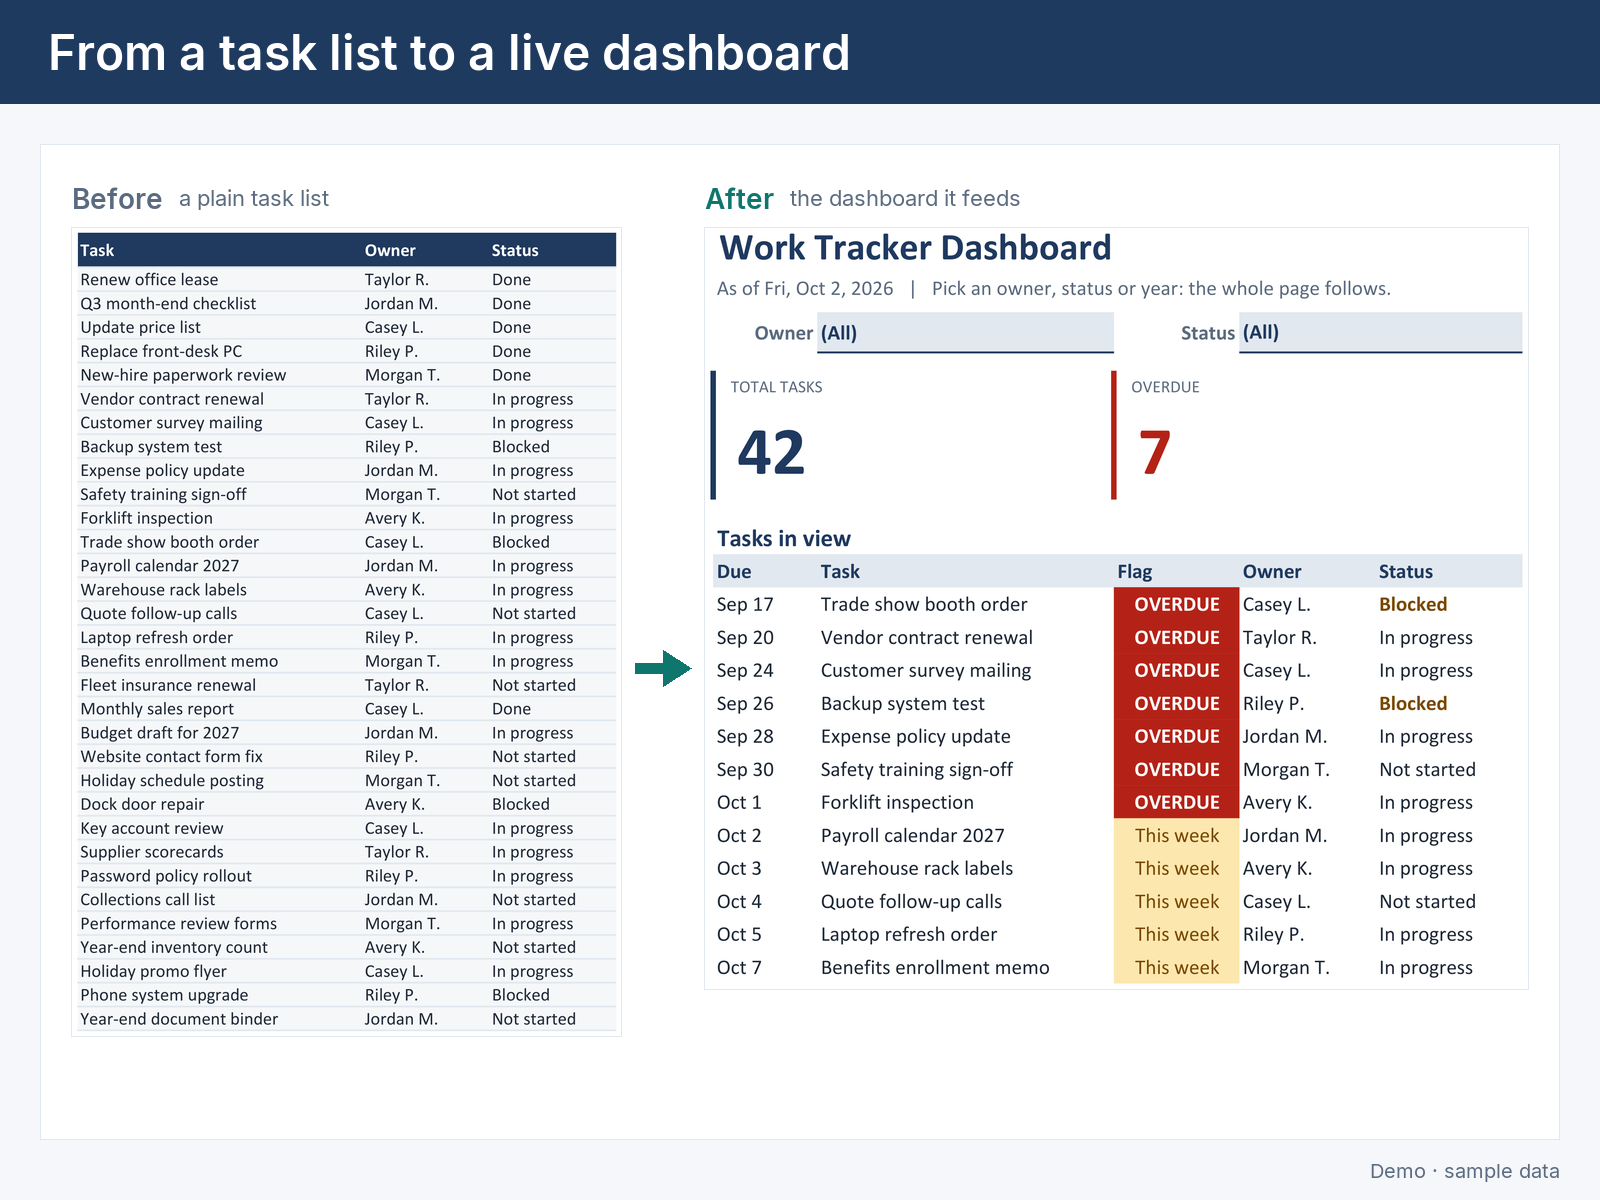
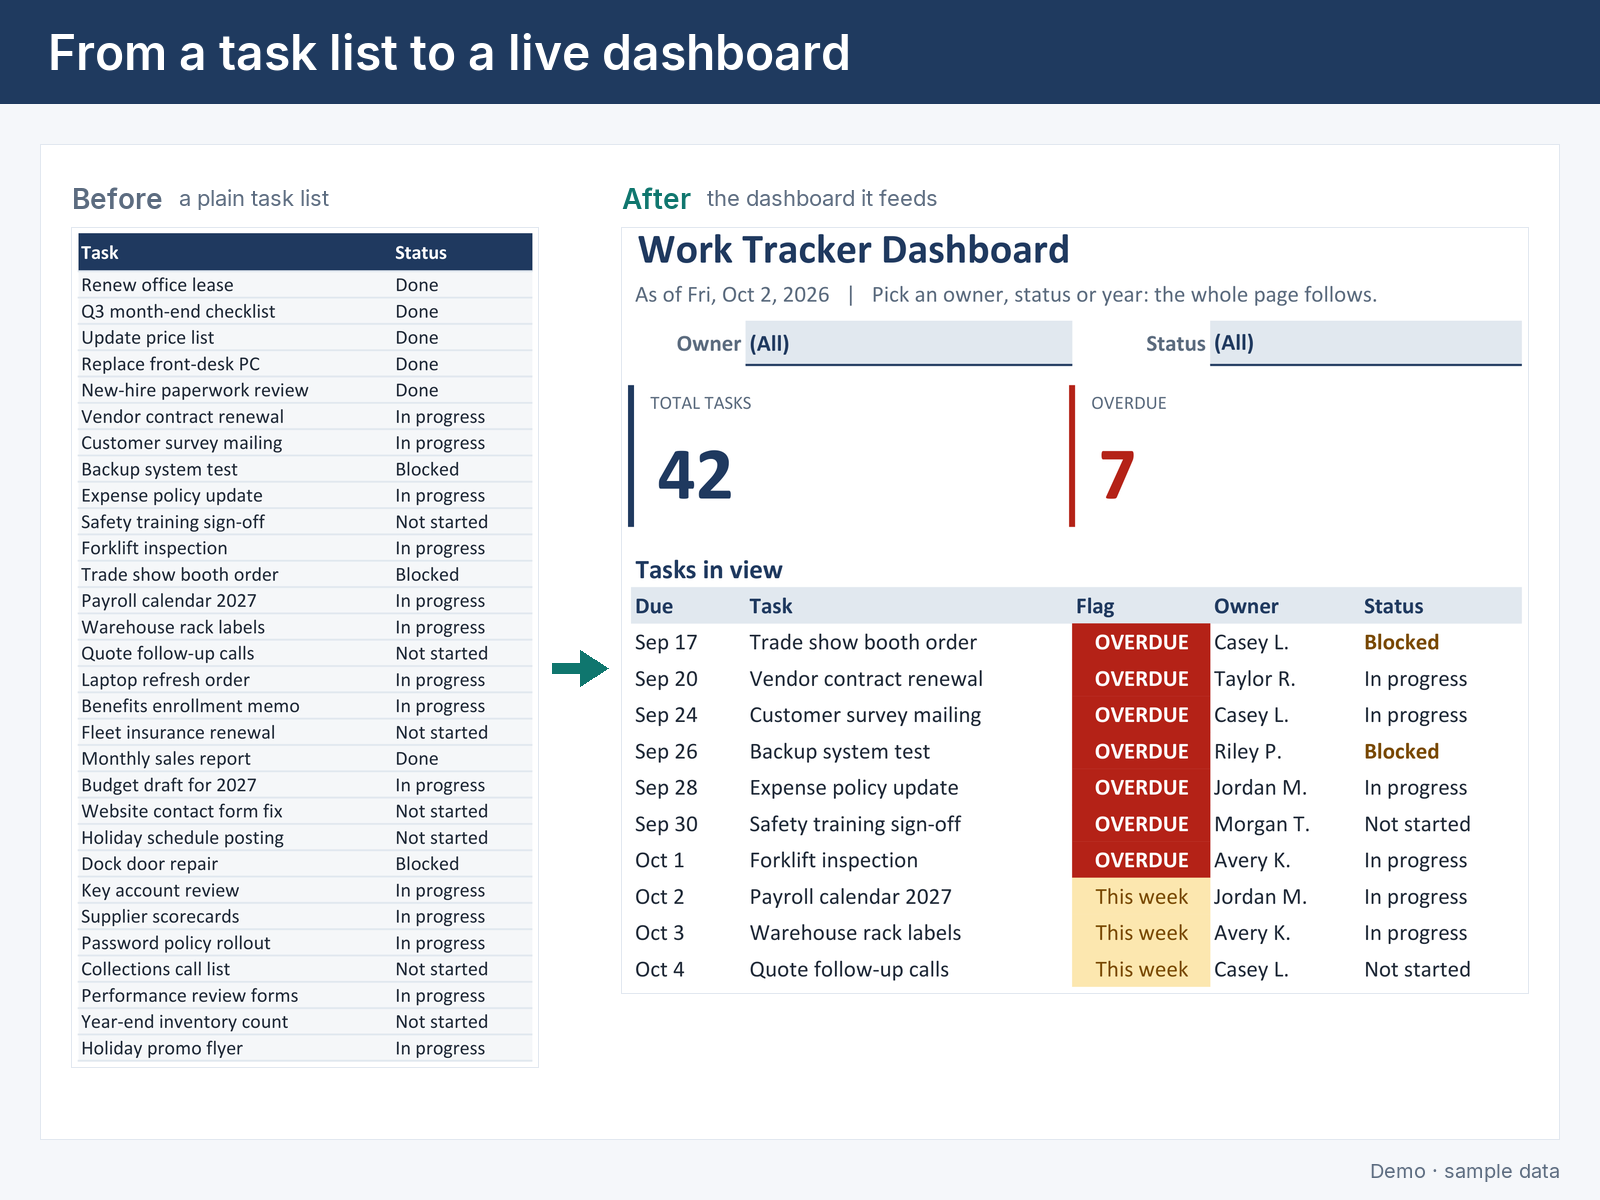
Before/after image: rebalance the panels so text is 20 px or more
The Before panel shows Task and Status for 30 tasks and takes a third of
the card; the After panel gets the rest, so its tile numbers reach 75 px.
The tool now prints the text and number sizes each image comes out at.

Changed region(s): [[0.0312, 0.1542, 0.9688, 0.8942]]

diff --git a/tools/make_screenshots.py b/tools/make_screenshots.py
@@ -12,6 +12,9 @@ opened read-only and never saved), PyMuPDF draws the PDF, and the kit frames it.
   2  the same view with the Owner filter set
   3  before / after: the plain task list, and the dashboard it feeds
 
+The tool prints the size the text and the tile numbers come out at. The style
+guide wants text at 20 px or more and headline numbers at 72 px or more.
+
 A 400 px wide copy of each image is written to screenshots\\_work\\ so the
 headline numbers can be checked at thumbnail size.
 """
@@ -39,8 +42,9 @@ VIEWS = {
     "owner": ("Dashboard", "A1:J24", {"SelOwner": FILTER_OWNER}, None, ()),
     # Two tiles and the list's first columns. The list's side note runs past
     # column F and would be cut mid-sentence, so it is blanked for this view.
-    "after": ("Dashboard", "A1:F24", {}, None, ("E11",)),
-    "before": ("Tasks", "A1:K33", {}, ("B", "C", "E"), ()),  # Task, Owner, Status
+    "after": ("Dashboard", "A1:F22", {}, None, ("E11",)),
+    # Task and Status, 30 tasks. More columns or rows would push the text under 20 px.
+    "before": ("Tasks", "A1:K31", {}, ("B", "E"), ()),
 }
 
 
@@ -116,15 +120,20 @@ def main() -> int:
     views = export_views()
     print("Writing screenshots:")
 
-    card, _ = filled_card(views["main"])
-    finish(card, "See what's overdue at a glance", "1-dashboard-overview.png")
+    card, scale = filled_card(views["main"])
+    finish(card, "See what's overdue at a glance", "1-dashboard-overview.png",
+           note=f"text {45.8 * scale:.0f} px, tile numbers {150 * scale:.0f} px")
 
-    card, _ = filled_card(views["owner"])
-    finish(card, "Pick an owner, the page follows", "2-filter-by-owner.png")
+    card, scale = filled_card(views["owner"])
+    finish(card, "Pick an owner, the page follows", "2-filter-by-owner.png",
+           note=f"text {45.8 * scale:.0f} px, tile numbers {150 * scale:.0f} px")
 
-    card, _ = kit.before_after(views["before"], views["after"], share=0.40,
-                               before_note="a plain task list", after_note="the dashboard it feeds")
-    finish(card, "From a task list to a live dashboard", "3-before-after-list-to-dashboard.png")
+    card, scales = kit.before_after(views["before"], views["after"], share=0.34,
+                                    before_note="a plain task list", after_note="the dashboard it feeds")
+    # The exports are drawn at 300 dpi, so 11 pt text is 45.8 px before scaling.
+    finish(card, "From a task list to a live dashboard", "3-before-after-list-to-dashboard.png",
+           note=f"text {45.8 * scales[0]:.0f} px before, {45.8 * scales[1]:.0f} px after, "
+                f"tile numbers {150 * scales[1]:.0f} px")
     return 0
 
 
